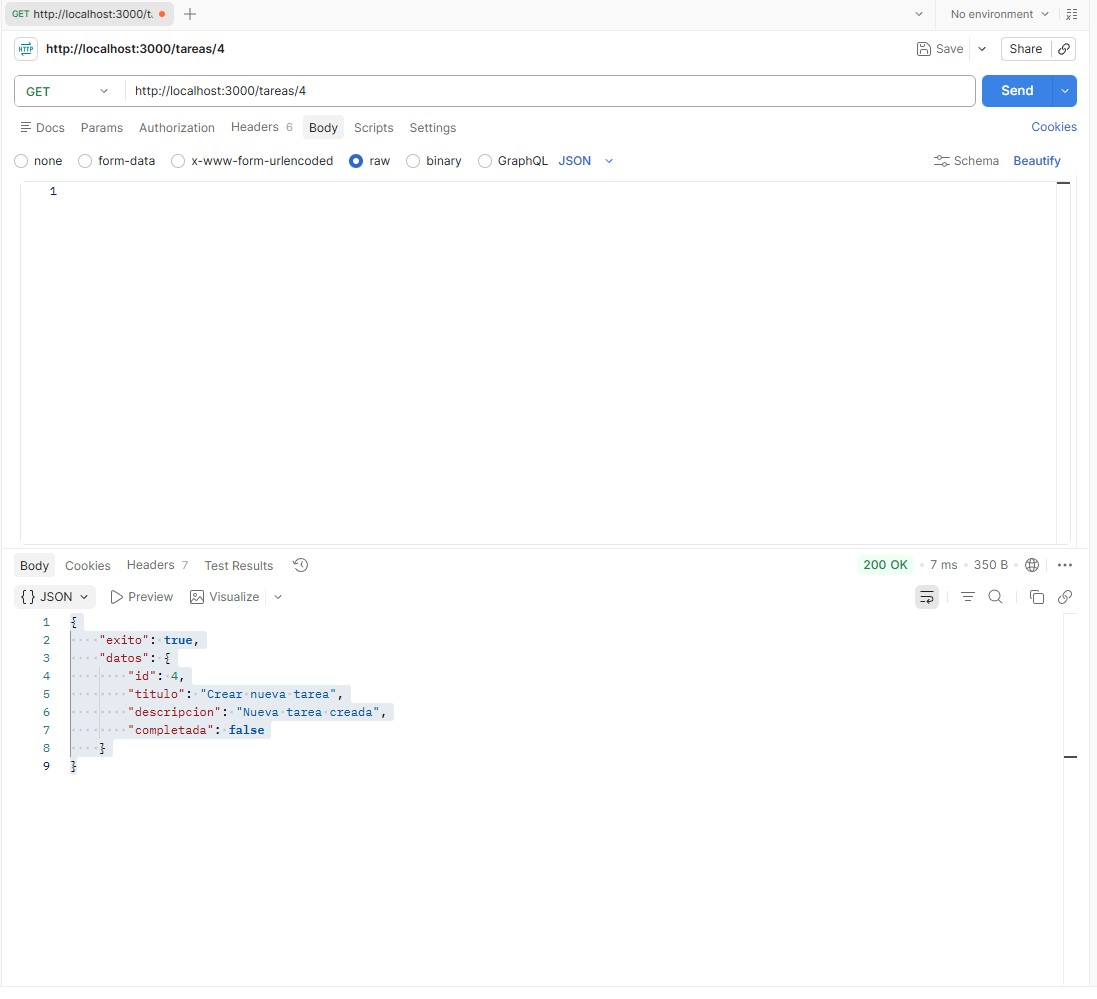
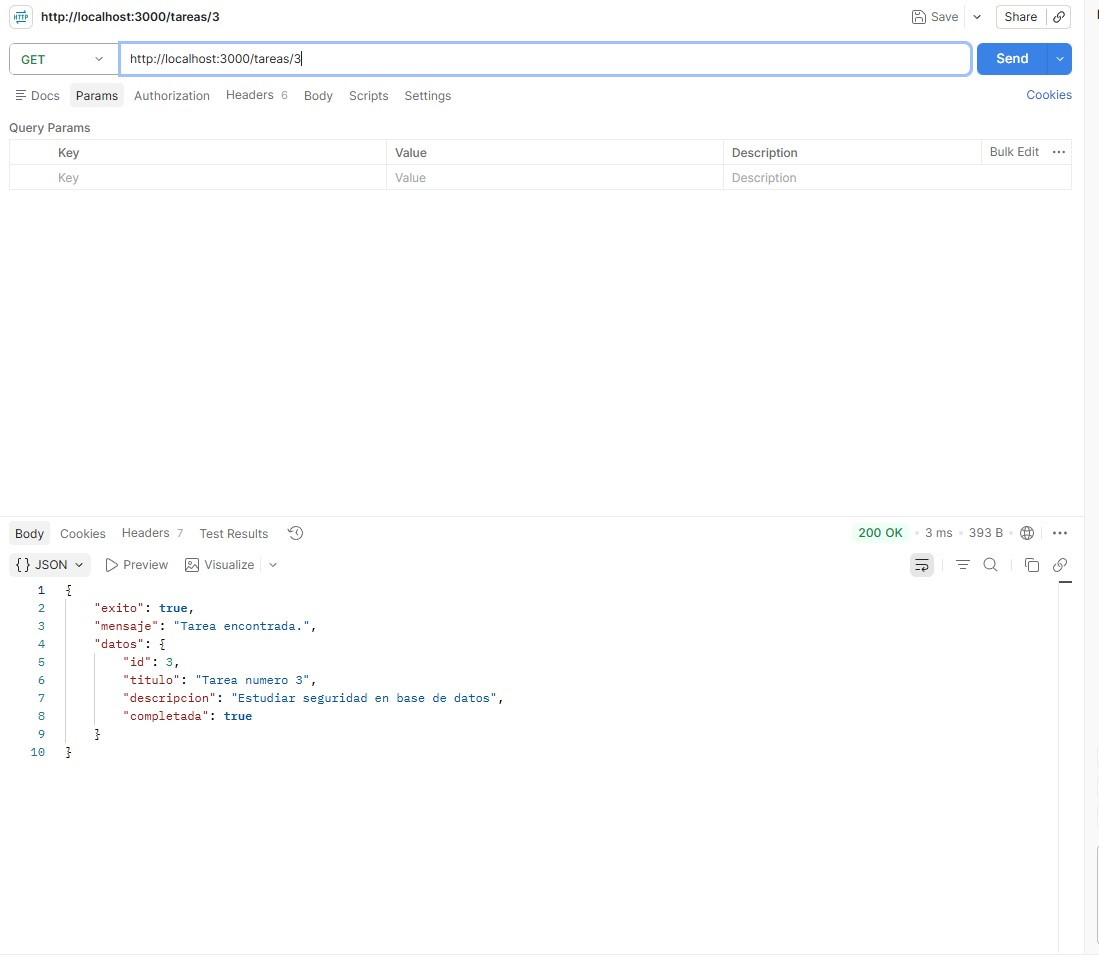
Entrega API RESTful encargo semana 4

diff --git a/routes.js b/routes.js
@@ -18,10 +18,10 @@ function validarTarea(body, esActualizacion = false) {
   // Validaciones para la creacion de tareas (POST)
   if (!esActualizacion) {
     if (!titulo || String(titulo).trim() === "") {
-      return { valido: false, mensaje: "El campo 'titulo' es obligatorio." };
+      return { valido: false, mensaje: "El campo 'titulo' es obligatorio y no puede estar vacio." };
     }
     if (!descripcion || String(descripcion).trim() === "") {
-      return { valido: false, mensaje: "El campo 'descripcion' es obligatorio." };
+      return { valido: false, mensaje: "El campo 'descripcion' es obligatorio y no puede estar vacio." };
     }
   }
 
@@ -36,7 +36,7 @@ function validarTarea(body, esActualizacion = false) {
     return { valido: false, mensaje: "El campo 'descripcion' debe ser de tipo texto." };
   }
   if (completada !== undefined && typeof completada !== "boolean") {
-    return { valido: false, mensaje: "El campo 'completada' debe ser un valor booleano (true o false)." };
+    return { valido: false, mensaje: "El campo 'completada' debe ser de tipo boolean (true o false)." };
   }
 
   return { valido: true, mensaje: null };
@@ -57,13 +57,13 @@ router.get("/:id", (req, res) => {
     return res.status(400).json({ exito: false, mensaje: "El ID debe ser un numero valido." });
   }
 
-  const tarea = tareas.find((t) => t.id === id);
+  const indice = tareas.findIndex((t) => t.id === id);
 
-  if (!tarea) {
-    return res.status(404).json({ exito: false, mensaje: `No se encontro la tarea con la ID ${id}.` });
+  if (indice === -1) {
+    return res.status(404).json({ exito: false, mensaje: `No se encontro una tarea con el ID ${id}.` });
   }
 
-  res.status(200).json({ exito: true, datos: tarea });
+  res.status(200).json({ exito: true, mensaje: "Tarea encontrada.", datos: tareas[indice] });
 });
 
 router.post("/", (req, res) => {
@@ -94,7 +94,7 @@ router.put("/:id", (req, res) => {
   const indice = tareas.findIndex((t) => t.id === id);
 
   if (indice === -1) {
-    return res.status(404).json({ exito: false, mensaje: `No se encontro la tarea con la ID ${id}.` });
+    return res.status(404).json({ exito: false, mensaje: `No se encontro una tarea con el ID ${id}.` });
   }
 
   const validacion = validarTarea(req.body, true);
@@ -122,11 +122,11 @@ router.delete("/:id", (req, res) => {
   const indice = tareas.findIndex((t) => t.id === id);
 
   if (indice === -1) {
-    return res.status(404).json({ exito: false, mensaje: `No se encontro la tarea con la ID ${id}.` });
+    return res.status(404).json({ exito: false, mensaje: `No se encontro una tarea con el ID ${id}.` });
   }
 
   const eliminado = tareas.splice(indice, 1)[0];
-  res.status(200).json({ exito: true, mensaje: "Tarea eliminada correctamente.", datos: eliminado });
+  res.status(200).json({ exito: true, mensaje: "Tarea eliminada exitosamente.", datos: eliminado });
 });
 
 module.exports = router;